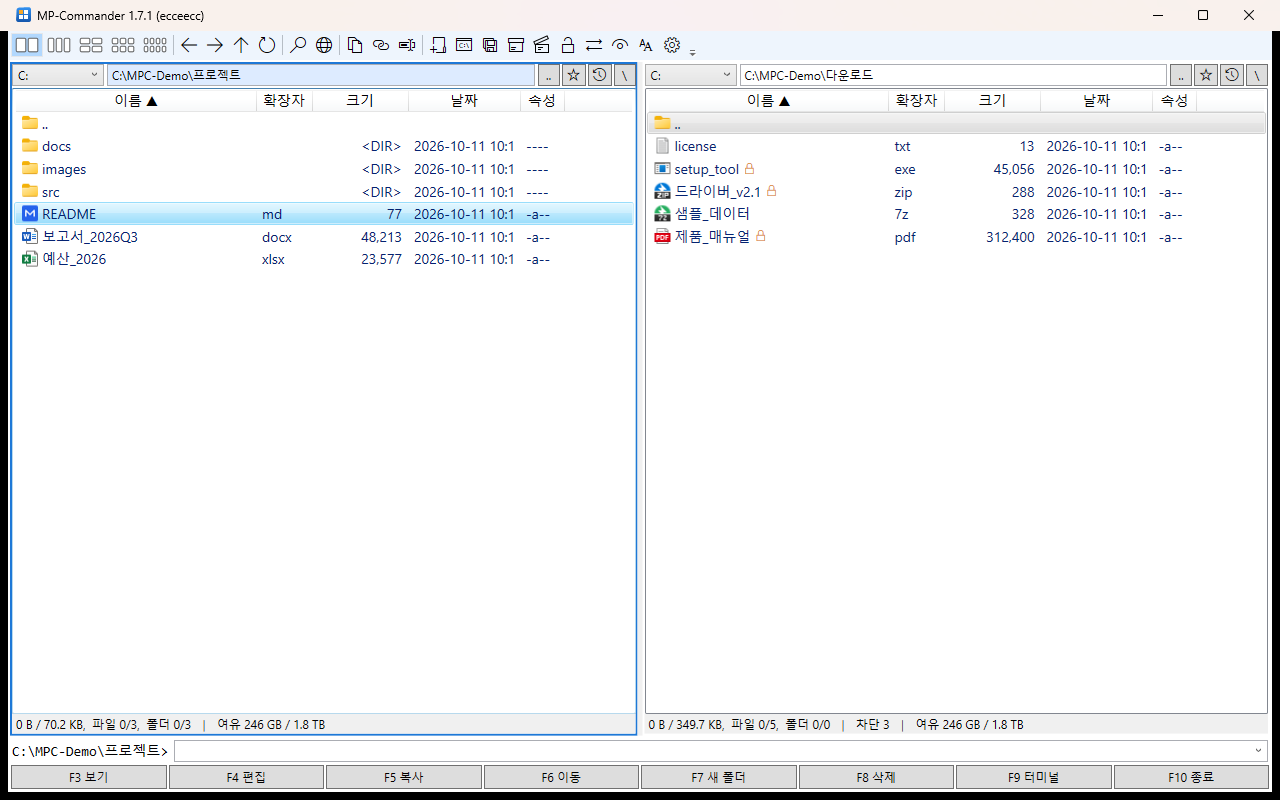
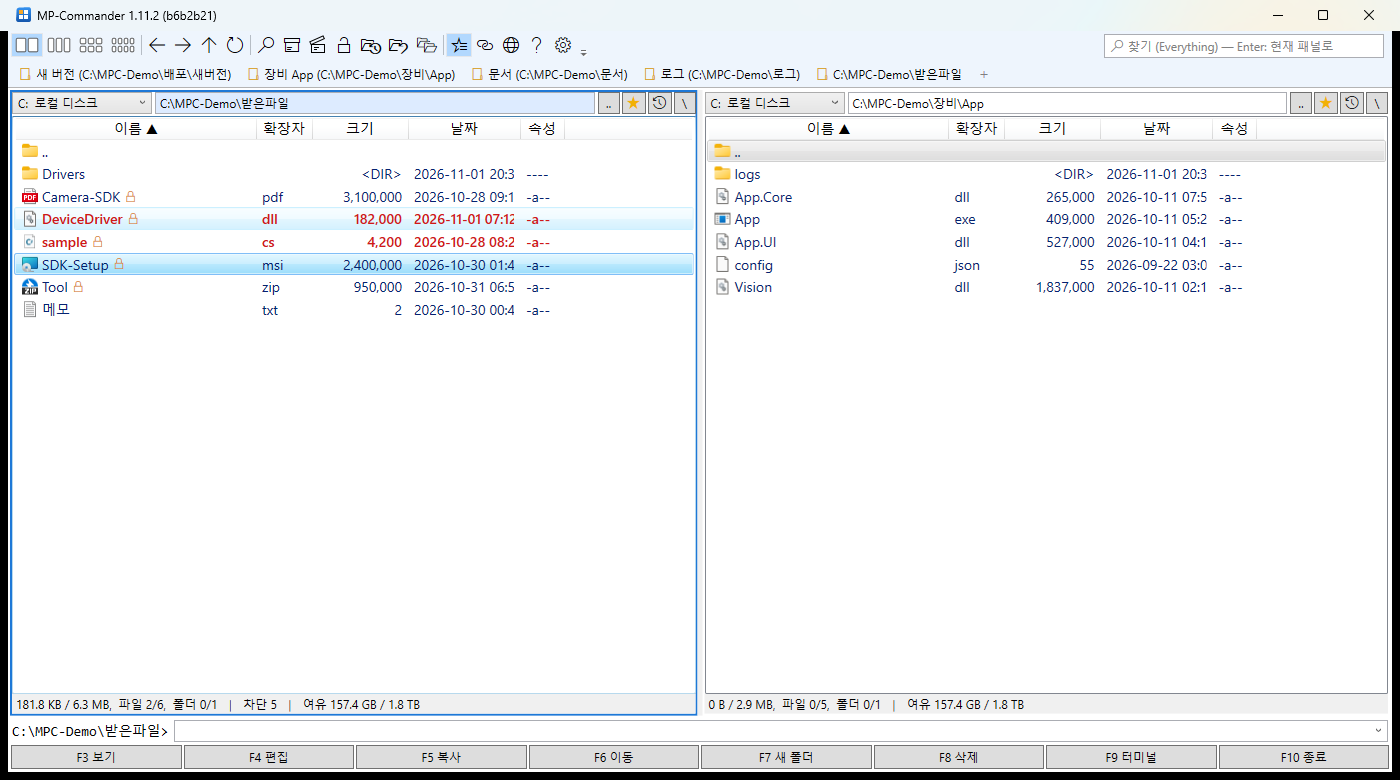
README: features with how-to for the GitHub front page, new main screenshot
- "A complete toolkit for software engineers" section at the top of the
  README: summary table and one section per feature with usage (keys, steps).
- Main window screenshot recaptured with the 1.11.2 build (demo folders,
  favorites bar, blocked files).

diff --git a/README.md b/README.md
@@ -6,6 +6,129 @@ Double Commander 스타일의 멀티 패널(2·3·4·6·8창) 파일 매니저. 
 
 📖 **[사용자 설명서](docs/manual/MANUAL.md)** · **[User manual (English)](docs/manual/MANUAL.en.md)** (기능 설명 + 목적별 활용, 화면 캡처 포함) · 📝 [변경 내역](CHANGELOG.md)
 
+## 소프트웨어 엔지니어를 위한 종합 선물 세트
+
+빠른 현장 작업에 맞춘 파일 관리자입니다. **설치 없이** 압축을 풀고 `MP-Commander.exe` 를 실행하면 됩니다 — [최신 버전 받기](https://github.com/SeanKi/TvCommander/releases/latest)
+
+![MP-Commander 기본 화면](docs/manual/images/01-main-2pane.png)
+
+| 기능 | 한 줄 요약 | 열기 |
+|---|---|---|
+| [여러 폴더 동시 관리](#1-한-화면에-여러-폴더-동시-관리--2창8창) | 2·3·4·6·8창 | Ctrl+F2 ~ F8 |
+| [복사 전 백업 · 복원](#2-복사-전-백업--복원) | 덮어쓸 파일 자동 백업, 프로그램 재실행, 한 번에 되돌리기 | Ctrl+B / Ctrl+Shift+B |
+| [차단 해제](#3-다운로드한-파일의-차단-해제) | 인터넷에서 받은 파일을 자물쇠로 표시, 한 번에 해제 | Ctrl+Shift+U |
+| [MarkDown · CSV 보기 / 편집](#4-markdown--csv-파일-보기--편집) | Office 없는 장비에서 .md · .csv 바로 보고 고치기 | F3 / F4 |
+| [폴더 즐겨찾기](#5-폴더-즐겨찾기) | 즐겨찾기 바에서 클릭 한 번 | ☆ / Ctrl+D |
+| [대용량 로그 보기](#6-대용량-로그-파일-보기) | 수백 MB 도 바로, 로그 쓰기를 막지 않음 | F3 |
+| [폴더 비교 · 동기화](#7-폴더-비교--동기화) | 단방향 / 양방향 복사 | Shift+F2 |
+| [빠른 파일 · 폴더 찾기](#8-빠른-파일--폴더-찾기) | 인코딩 상관없는 내용 찾기, Everything 통합 | Alt+F7 / 툴바 검색 상자 |
+| [FastCopy](#9-fastcopy--작은-파일-많을-때-빠른-복사) | 작은 파일이 많을 때 최대 약 3배 빠른 복사 | F5 / F6 |
+| [마우스로 다중 선택](#10-마우스로-다중-선택) | 탐색기처럼 빈 곳을 끌어 선택, Ctrl 로 더하기·반전 | 끌기 |
+| [그 밖에](#11-그-밖의-편의-기능) | FTP/FTPS/WebDAV, 네트워크 먹통 방지, 파일 3개(약 1.5 MB) | Ctrl+F |
+
+### 1. 한 화면에 여러 폴더 동시 관리 — 2창~8창
+
+배포 폴더·장비 폴더·로그 폴더를 한 화면에 늘어놓고 작업합니다.
+
+- **배치 바꾸기**: 툴바의 격자 아이콘 또는 **Ctrl+F2**(2창) / **Ctrl+F3**(3창) / **Ctrl+F4**(2×2) / **Ctrl+F6**(2×3) / **Ctrl+F8**(2×4).
+- **활성 패널**(파란 테두리)에서 작업하고, 복사·이동은 **대상 패널**(주황 테두리)로 갑니다. 대상은 직전에 쓰던 패널이고, **Ctrl+Shift+숫자**로 고정할 수 있습니다.
+- 패널 이동: **Tab / Shift+Tab**, **Ctrl+1~8**. **Ctrl+U** 는 활성·대상 경로 맞바꾸기.
+- 마지막 배치·경로는 끌 때 저장되어 다음에 그대로 열립니다.
+
+### 2. 복사 전 백업 · 복원
+
+복사 전에 따로 백업할 필요가 없습니다. 덮어쓸 옛 파일을 자동으로 백업 폴더에 남기고, 실행 중이던 프로그램도 다시 실행해 줍니다.
+
+![백업 후 복사](docs/manual/images/08-backup-copy.png)
+
+**백업 후 복사 (Ctrl+B)**
+1. 활성 패널에서 새 파일들을 표시하고(Insert / Ctrl+A), 대상 패널에 장비의 프로그램 폴더를 엽니다.
+2. **Ctrl+B** (툴바의 폴더+시계) → 준비 창에서 백업 위치와 다시 실행할 프로그램을 확인하고 시작.
+3. 덮어쓸 파일만 `backup\날짜_시각\` 에 같은 구조로 보관되고 `backup-copy.log` 에 기록됩니다. 백업에 실패한 파일은 덮어쓰지 않습니다.
+   대상 파일을 쓰고 있는 프로그램은 닫았다가 복사가 끝나면 다시 실행합니다.
+
+**복원 (Ctrl+Shift+B)**: `backup` 아래 날짜 폴더에 커서를 두고 누르면, 기록대로 옛 파일을 되돌리고 새로 생긴 파일은 치웁니다.
+되돌리기 직전 상태도 `backup\last_one` 에 남아 복원을 다시 되돌릴 수 있습니다.
+
+### 3. 다운로드한 파일의 차단 해제
+
+인터넷에서 받은 파일, 특히 DLL 은 Windows 가 차단해 로드되지 않아도 원인을 알기 어렵습니다.
+
+- 차단된 파일은 이름 옆에 **주황 자물쇠**가 붙고, 패널 아래에 `차단 5` 처럼 개수가 나옵니다 (위 화면 왼쪽 패널).
+- 풀 파일을 표시하고(없으면 현재 폴더 전체) **Ctrl+Shift+U** 또는 툴바 자물쇠 → 하위 폴더까지 한 번에 해제.
+
+### 4. MarkDown · CSV 파일 보기 / 편집
+
+Office 를 쓰기 어려운 장비에서도 .md · .csv 를 바로 보고 고칩니다.
+
+- **F3 보기** — .md 는 같은 폴더에 `MDNotePad+.exe` 가 있으면 MDNotePad+ 로, 없으면 내장 뷰어로.
+- **F4 편집** — 내장 텍스트 편집기 (문법 색, 찾기·바꾸기, 인코딩·줄 끝 유지). **.csv 는 표 편집기**: 셀 편집, 행·열 추가·삭제, 엑셀과 복사·붙여넣기.
+- **Shift+F4** — 설정한 외부 편집기로.
+
+### 5. 폴더 즐겨찾기
+
+자주 쓰는 폴더를 등록해 두고 클릭 한 번으로 갑니다.
+
+- 패널 머리의 **☆** (또는 **Ctrl+D**) 로 지금 폴더를 즐겨찾기에 더합니다.
+- **즐겨찾기 바**(툴바 아래): 누르면 활성 패널, **Ctrl+누르기**는 대상 패널에서 엽니다. **＋** 로 지금 폴더 더하기.
+- 오른쪽 버튼으로 이름 붙이기(`이름 (경로)`), 순서 바꾸기, 빼기.
+- **Alt+↓** (🕘): 자주 머문 폴더와 최근 폴더 목록.
+
+### 6. 대용량 로그 파일 보기
+
+![뷰어 — 파일 전체에서 찾기](docs/manual/images/03-viewer-find.png)
+
+- **F3** 으로 엽니다. 300 MB 로그도 0.2초 안팎에 열리고, 스크롤로 파일 처음부터 끝까지 바로 갑니다.
+- **Ctrl+F** 로 **파일 전체**에서 찾기 (정규식 가능) — 찾은 줄이 아래에 모두 나오고, **F3 / Shift+F3** 로 다음 / 이전.
+- 파일을 **공유 모드로 읽고 바로 닫아서** 로그를 쓰는 프로그램을 막지 않습니다 (klogg 등은 로그 생성을 막을 수 있음).
+
+### 7. 폴더 비교 · 동기화
+
+비슷한 두 폴더(현장 PC ↔ 개발 PC 등)의 다른 점만 보고 맞춥니다.
+
+1. 활성 패널과 대상 패널에 두 폴더를 엽니다.
+2. **Shift+F2** (툴바의 겹친 두 폴더) — 하위 폴더까지 비교해 한쪽에만 있는 것, 더 새 것, 충돌을 보여 주고 어느 쪽을 남길지 조언합니다.
+3. **양쪽 똑같이**(양방향) / **한쪽 → 반대쪽 최신만**(단방향) / **한쪽처럼 맞추기** 중 고르고 실행. 지워지는 파일은 휴지통으로 갑니다.
+
+### 8. 빠른 파일 · 폴더 찾기
+
+![파일 찾기](docs/manual/images/04-search.png)
+
+- **파일 내용으로 찾기 (Alt+F7)**: 포함 텍스트를 넣으면 UTF-8 / 한글 ANSI / UTF-16 을 **가리지 않고** 한 번에 찾습니다.
+  (Double Commander 등은 인코딩을 지정하는 방식이라 인코딩이 다른 문서는 놓치기 쉽습니다.) 결과에서 Enter 는 그 폴더로, F3 은 찾은 말로 연 뷰어로.
+- **툴바 검색 상자 (Everything 통합)**: 이름을 입력하면 [Everything](https://www.voidtools.com/) 이 모든 드라이브에서 찾아 아래로 펼치고,
+  **Enter** 면 그 파일·폴더를 현재 패널에서 엽니다. 목록 모서리를 끌어 크기를 바꿀 수 있습니다.
+
+### 9. FastCopy — 작은 파일 많을 때 빠른 복사
+
+작은 파일이 많을수록 복사가 느린 문제를 보완합니다. **Auto FastCopy 사용**이 기본으로 켜져 있어, 도움이 될 때(작은 파일 8개 이상, SSD·네트워크) 여러 개를 동시에 복사합니다.
+
+| 예 (NVMe SSD) | 하나씩 | Auto FastCopy |
+|---|---|---|
+| 4 KB × 5,000개 | 5.2초 | **1.7초** |
+| 2 KB × 20,000개 | 21.7초 | **6.7초** (약 3배) |
+
+- **F5 복사 / F6 이동** 창의 **Auto FastCopy 사용** 으로 끄고 켭니다 (기억됨).
+- 진행 창의 **상세 기록 보기**로 파일마다 결과를 보고, 로그는 `%APPDATA%\MP-Commander\logs` 에 7일 남습니다.
+
+### 10. 마우스로 다중 선택
+
+탐색기에서는 되지만 파일 커맨더에서는 잘 안 되는 **마우스로 영역 선택**을 지원합니다.
+
+- **마지막 칸 오른쪽 빈 곳(또는 항목 아래)에서 끌기** → 사각형 안의 파일 선택.
+- **Ctrl+끌기**: 기존 선택을 두고 더하기 (이미 선택된 것은 탐색기처럼 반전).
+- **Ctrl+클릭** 하나씩, **Shift+클릭** 범위, **Ctrl+Shift+클릭 / Ctrl+Shift+↑↓** 범위 더하기. 키보드는 **Insert / Space** 표시.
+
+### 11. 그 밖의 편의 기능
+
+- **WebDAV / FTP / FTPS** 기본 지원 — **Ctrl+F** (툴바 지구본)에서 등록하면 `ftp://이름`, `dav://이름` 을 폴더처럼 엽니다.
+- **네트워크 먹통 방지** — 노트북이 다른 네트워크로 옮겨 공유 폴더에 연결되지 않아도 '응답 없음'으로 멈추지 않습니다
+  (접근 전 2초 통신 확인, 막힌 작업 취소). Double Commander 등에서 자주 생기는 문제입니다.
+- **작은 크기** — 파일 3개(약 1.5 MB), 설치 없이 실행. 설정은 `%APPDATA%\MP-Commander` 에.
+- 안드로이드폰(USB), 7z / ZIP 압축, 명령줄, 한국어 / English.
+
+자세한 설명은 📖 [사용자 설명서](docs/manual/MANUAL.md)에 있습니다.
+
 ## 빌드 / 배포
 
 ```powershell
